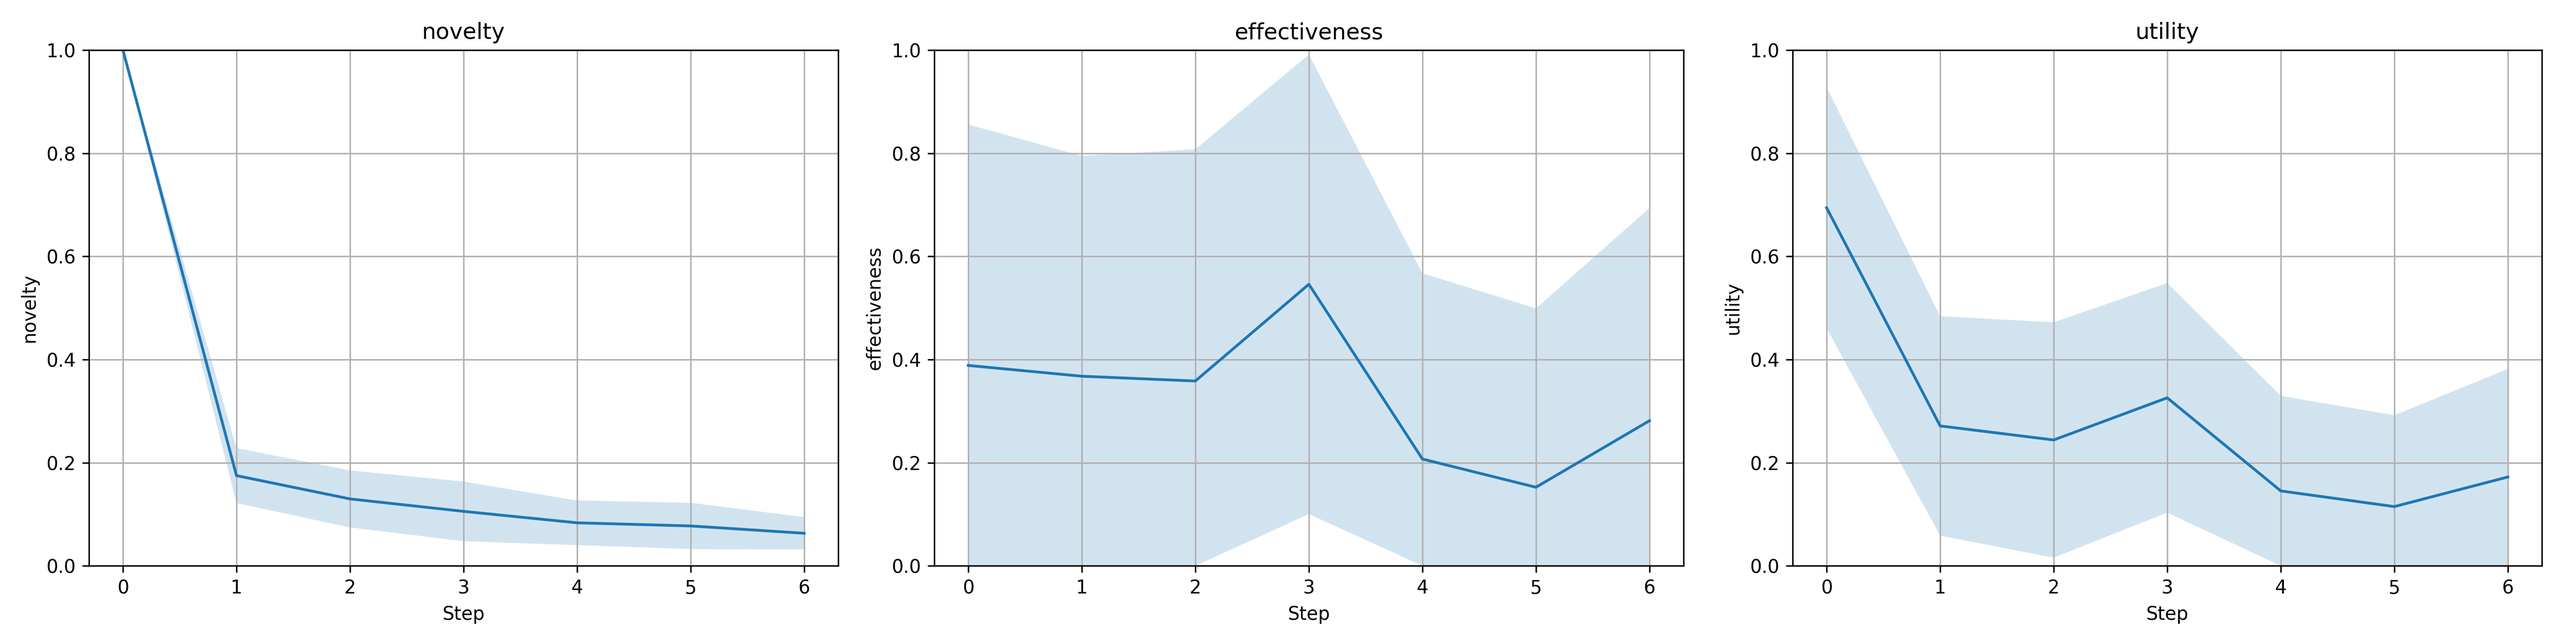
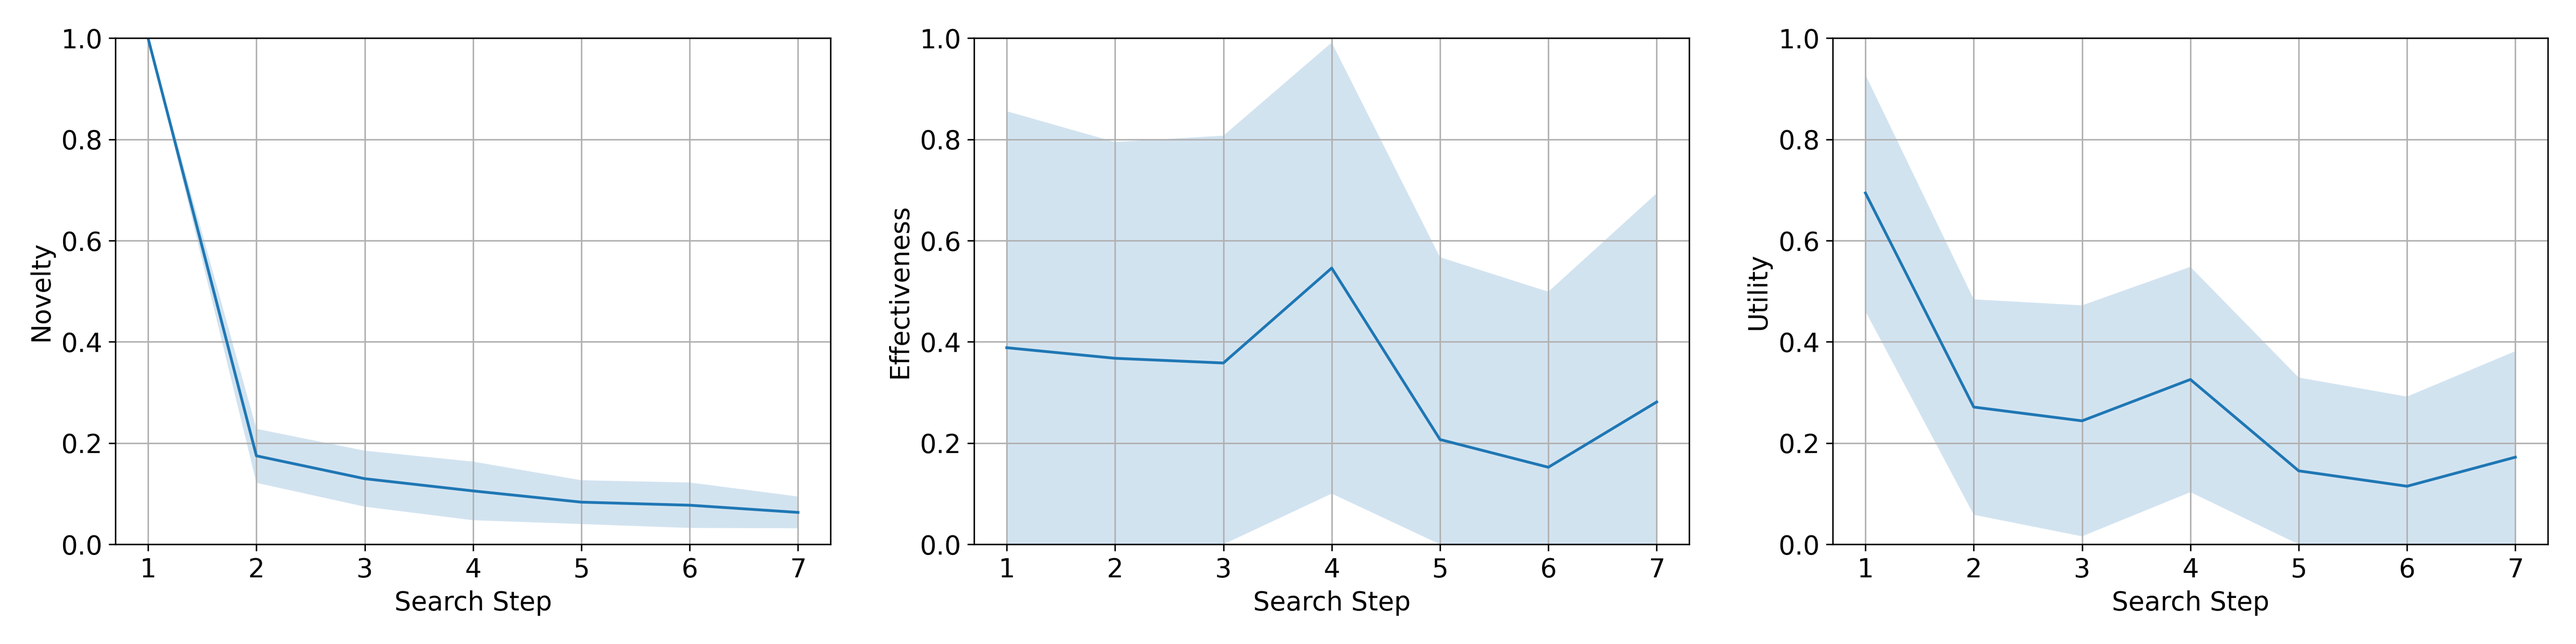
update figure

diff --git a/README.md b/README.md
@@ -168,7 +168,7 @@ bash scripts/entryretrieval_launch_CPU.sh
 # bash scripts/entryretrieval_launch.sh
 ```
 
-2. Run agentic inference
+2. Run agentic inference:
 Retrieved information will be added as user messages, which allows compatibility with most APIs, including proprietary models.
 ```bash
 conda activate deepcontrol
